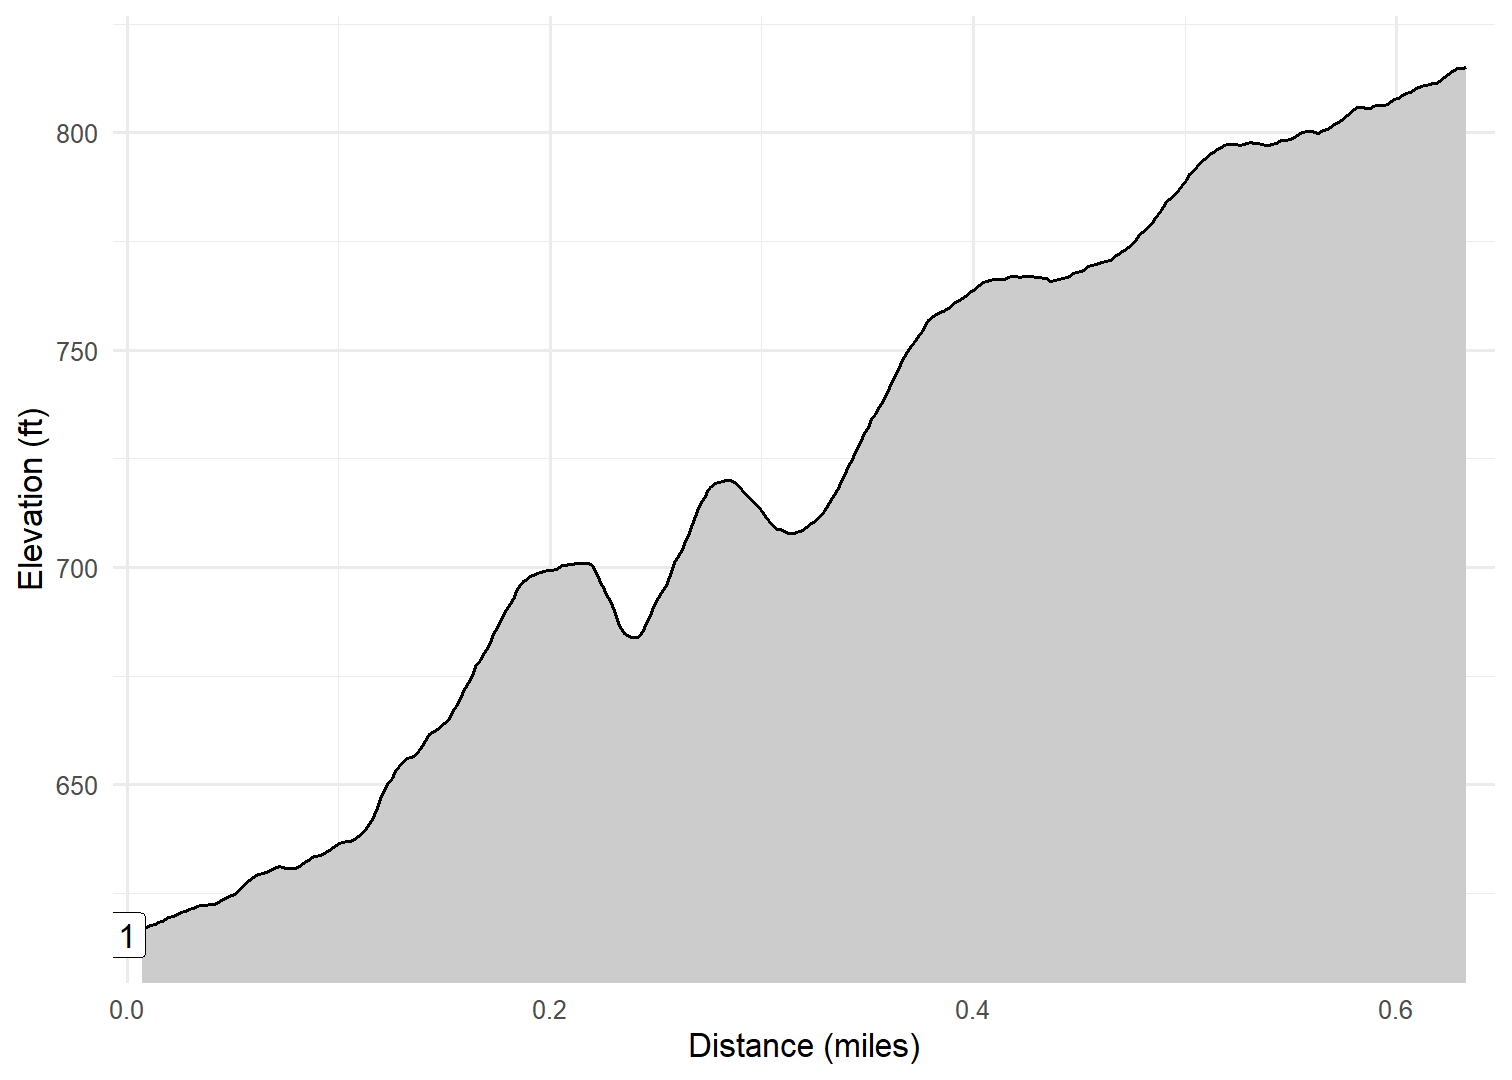
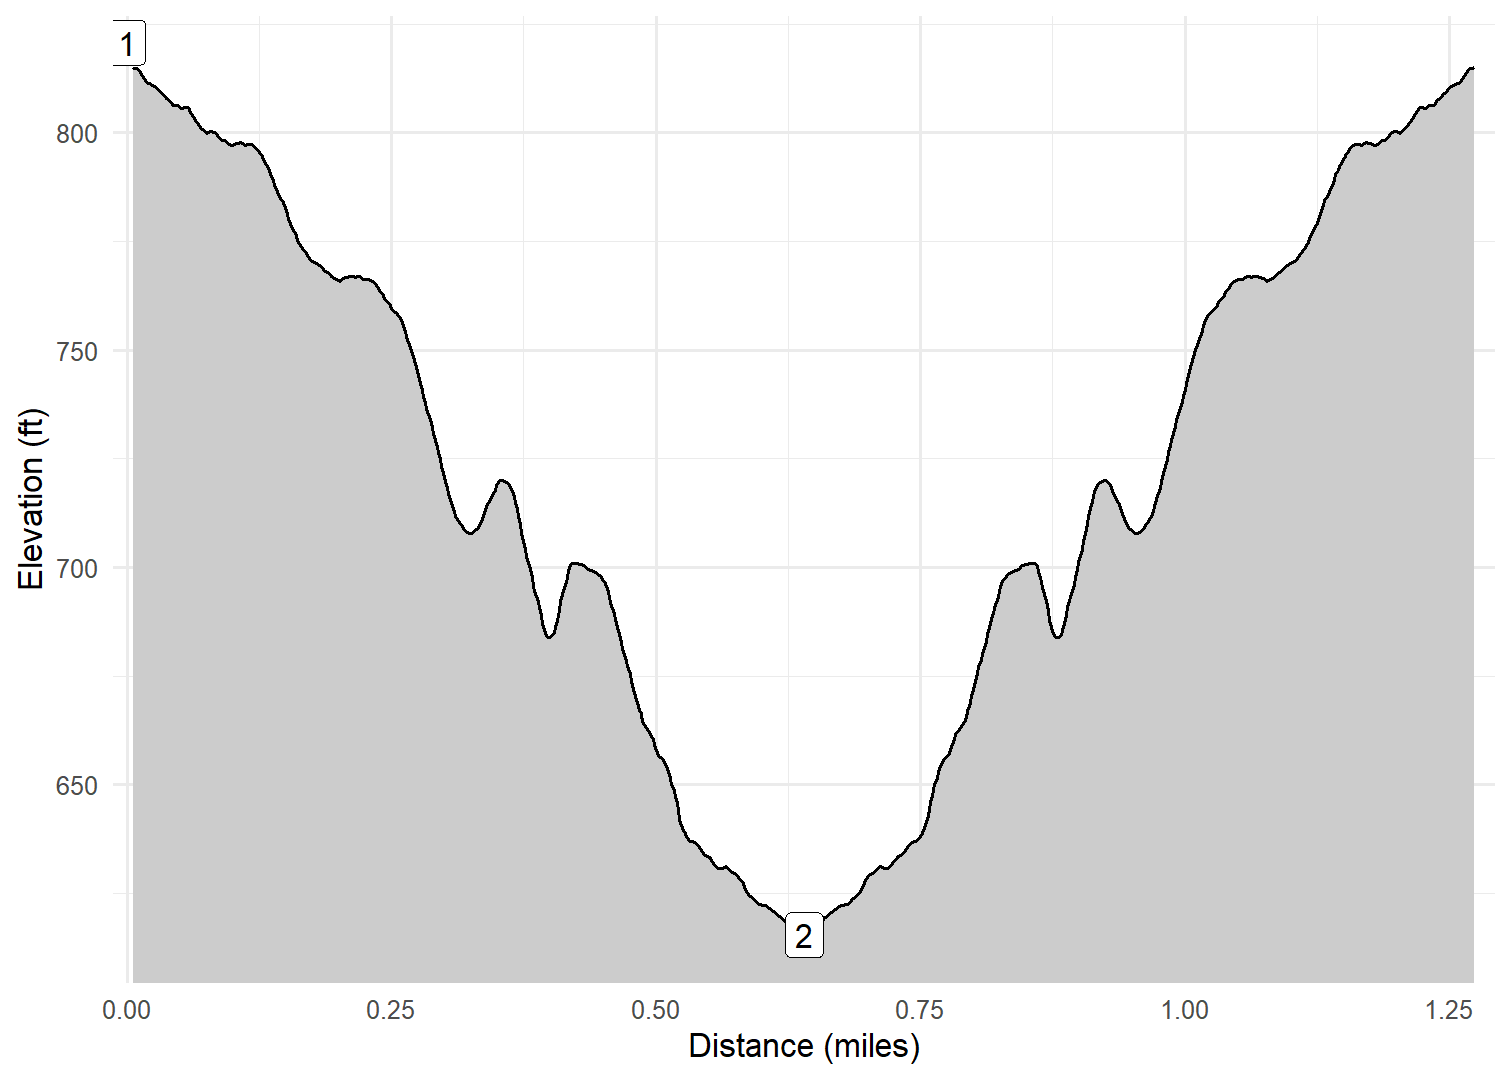
Updated Kadunce Trail

diff --git a/docs/personal/Hiking/MN Kadunce.html b/docs/personal/Hiking/MN Kadunce.html
@@ -272,8 +272,8 @@ ul.task-list li input[type="checkbox"] {
 <h2 class="anchored" data-anchor-id="walk-specific-map">Walk-Specific Map</h2>
 <div class="cell">
 <div class="cell-output-display">
-<div class="leaflet html-widget html-fill-item" id="htmlwidget-8189f2644b279fa461fb" style="width:100%;height:464px;"></div>
[1 lines of base64/hex data omitted]
+<div class="leaflet html-widget html-fill-item" id="htmlwidget-5064aa90f788f089ef47" style="width:100%;height:464px;"></div>
[1 lines of base64/hex data omitted]
 </div>
 </div>
 <div class="callout callout-style-simple callout-note callout-titled">
@@ -331,10 +331,20 @@ Take Note
 <td style="text-align: right;">1</td>
 <td style="text-align: left;">MNKDNC01</td>
 <td style="text-align: left;">Kadunce River trail</td>
-<td style="text-align: left;">Hwy 61 to Superior Hiking Trail</td>
+<td style="text-align: left;">Superior Hiking Trail to Hwy 61</td>
 <td style="text-align: left;">Trail</td>
 <td style="text-align: right;">0.64</td>
 <td style="text-align: right;">0.64</td>
+<td style="text-align: right;">-205</td>
+</tr>
+<tr class="even">
+<td style="text-align: right;">2</td>
+<td style="text-align: left;">MNKDNC01</td>
+<td style="text-align: left;">Kadunce River trail</td>
+<td style="text-align: left;">Hwy 61 to Superior Hiking Trail</td>
+<td style="text-align: left;">Trail</td>
+<td style="text-align: right;">0.64</td>
+<td style="text-align: right;">1.28</td>
 <td style="text-align: right;">205</td>
 </tr>
 </tbody>
